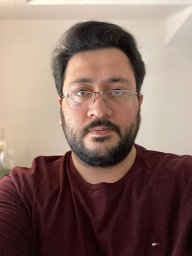
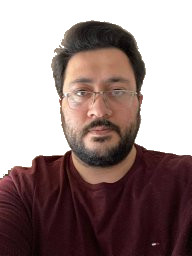
test

diff --git a/_includes/css/agency.css b/_includes/css/agency.css
@@ -20,7 +20,9 @@ body {
 }
 
 .col-md-4, .col-sm-4 {
+    /*
     float: right;
+    */
 }
 
 @media (min-width: 768px) {
